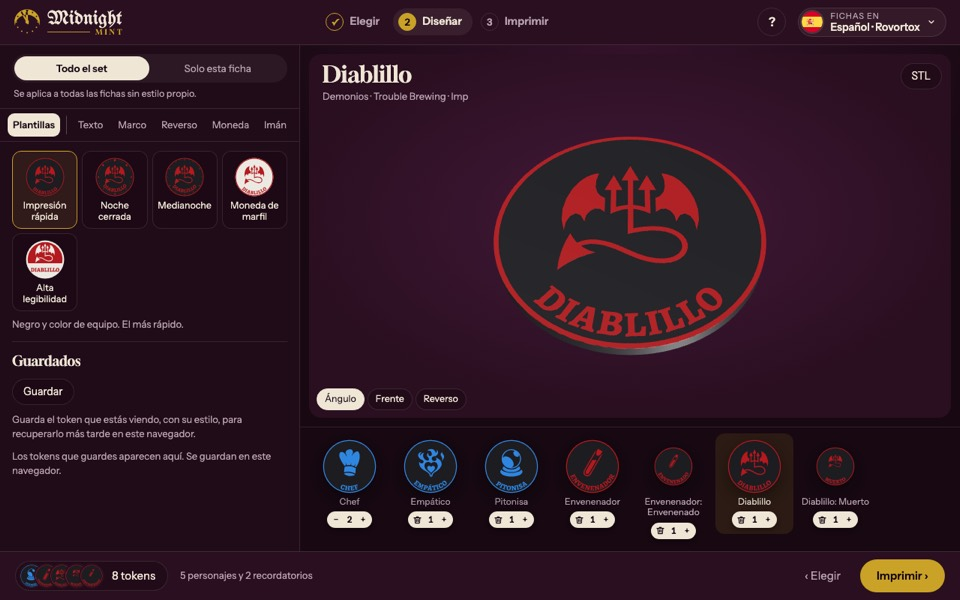
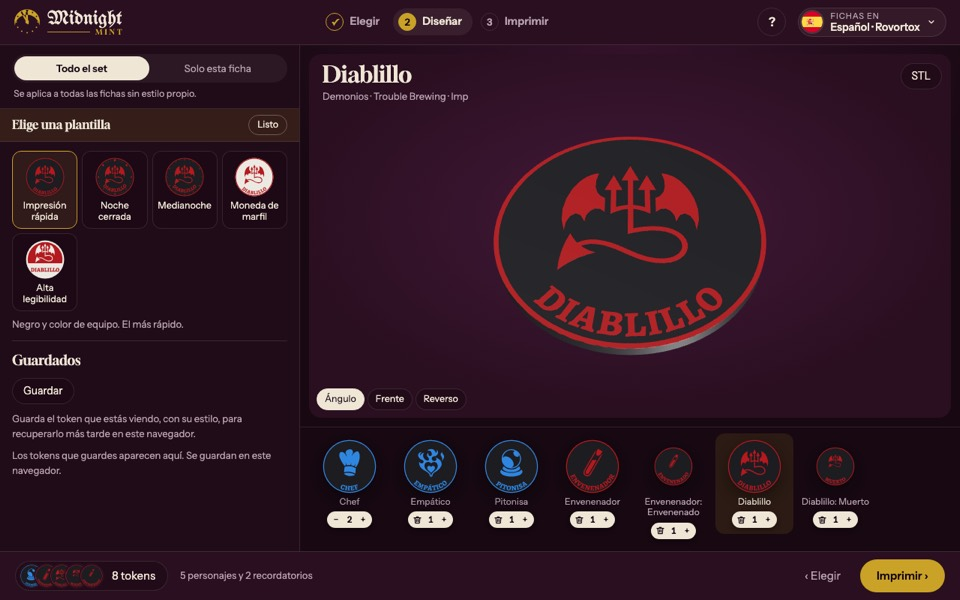
Workshop: the template gets a line of its own, saying which one and whether it's modified

diff --git a/src/main.js b/src/main.js
@@ -49,7 +49,8 @@ const state = {
   edition: "tb", team: "all",
   sel: null,              // { key, role, reminder: index | null }
   tab: "set",   // what the controls edit: "set" or "token"
-  section: "presets",
+  section: "presets",   // what the panel shows; "presets" is the templates, open under their line
+  lastSection: "text",
   // Default set style: "Impresión rápida" (black coin, team colour, thin team rim, no back).
   spec: loadJSON(STYLE_KEY, null) || {
     ...structuredClone(DEFAULT_SPEC), style: "classic", frame: "rim", frameWidth: 0.8, back: "none", depth: 0.2,
@@ -698,14 +699,44 @@ function writableSpec() {
   const key = state.sel.key, own = state.overrides.get(key);
   if (own?.spec) return own.spec;
   const spec = structuredClone(state.spec);
+  spec.fromPreset = templateOf(state.spec).preset?.id;   // for the template line
   delete spec.preset;   // resets go to the set's values
   state.overrides.set(key, { ...own, spec });
   return spec;
+}
+/** Whether a spec differs from a template in anything the template sets (the magnet is a choice of its own). */
+function differsFrom(p, spec) {
+  const colours = (c) => ({ ...DEFAULT_SPEC.colours, ...c });
+  return Object.entries(presetSpec(p)).some(([k, v]) => !PRESET_KEEPS.has(k)
+    && JSON.stringify(k === "colours" ? colours(v) : v) !== JSON.stringify(k === "colours" ? colours(spec.colours) : spec[k] ?? DEFAULT_SPEC[k]));
+}
+/** The template a spec started from, or for one saved before this was kept, the template it matches. */
+function templateOf(spec) {
+  const id = spec.preset ?? spec.fromPreset;
+  const preset = PRESETS.find((p) => p.id === id) ?? PRESETS.find((p) => !differsFrom(p, spec));
+  return { preset, modified: !!preset && differsFrom(preset, spec) };
+}
+/** Before a change: a spec that matches a template but never named it keeps which one, or it'd be lost. */
+function rememberTemplate(spec) {
+  if (spec.preset || spec.fromPreset) return;
+  const { preset } = templateOf(spec);
+  if (preset) spec.fromPreset = preset.id;
+}
+/** The line above the sections: which template, and the way to the others. */
+function renderTemplateRow() {
+  const open = state.section === "presets", row = $("#tplRow");
+  row.setAttribute("aria-expanded", String(open));
+  if (open) { row.innerHTML = `<b>${esc(t("tpl.choose"))}</b><em>${esc(t("tpl.done"))}</em>`; return; }
+  const { preset, modified } = templateOf(editingSpec());
+  row.innerHTML = `<span>${esc(t("tpl.label"))}</span><b>${esc(preset ? t(`preset.${preset.id}`) : t("tpl.none"))}</b>${modified ? `<small>${esc(t("tpl.modified"))}</small>` : ""}<em>${esc(t("tpl.change"))}</em>`;
 }
 /** Each section turns the 3D view to what it changes. */
 const SECTION_VIEW = { presets: "angle", text: "top", frame: "top", back: "back", coin: "angle", magnet: "back" };
 function showSection(section) {
   state.section = section;
+  if (section !== "presets") state.lastSection = section;
+  $("#sections").hidden = section === "presets";
+  renderTemplateRow();
   $$(".sections [data-section]").forEach((b) => b.setAttribute("aria-selected", String(b.dataset.section === section)));
   $$(".ws-panel").forEach((p) => { p.hidden = p.dataset.panel !== section; });
   $("#styleFields").scrollTop = 0;
@@ -748,6 +779,7 @@ function renderWorkshop() {
     // The design tiles show a coin: a card shows them on a character.
     const tileRole = isCard(role) ? state.lib.roles.find((r) => !isCard(r) && r.edition === "tb") ?? role : role;
     renderPresets(tileRole, editing);
+    renderTemplateRow();
     renderBackTiles(tileRole, editing);
     renderFrameTiles(tileRole, editing);
     syncControls(editing);
@@ -786,6 +818,7 @@ const dec1 = (v) => v.toFixed(1).replace(".", uiLang() === "es" ? "," : ".");
 /** The fix for light inlays: the depth that covers the coin, on the style the token actually uses. */
 function deepen() {
   const key = state.sel.key, own = state.overrides.get(key)?.spec;
+  rememberTemplate(own ?? state.spec);
   (own ?? state.spec).depth = LIGHT_DEPTH;
   if (own) storeOverrides(); else storeJSON(STYLE_KEY, state.spec);
   renderWorkshop(); scheduleSheet();
@@ -816,9 +849,9 @@ function deepenAll() {
   let set = false, own = false;
   for (const x of selectionColourIssues().filter((x) => x.light.length)) {
     const o = state.overrides.get(x.k)?.spec;
-    if (o) { o.depth = LIGHT_DEPTH; own = true; } else set = true;
+    if (o) { rememberTemplate(o); o.depth = LIGHT_DEPTH; own = true; } else set = true;
   }
-  if (set) { state.spec.depth = LIGHT_DEPTH; storeJSON(STYLE_KEY, state.spec); }
+  if (set) { rememberTemplate(state.spec); state.spec.depth = LIGHT_DEPTH; storeJSON(STYLE_KEY, state.spec); }
   if (own) storeOverrides();
   if (state.sel) renderWorkshop();
   renderSheet(); renderSpine(); renderQueue();
@@ -847,11 +880,10 @@ function renderBackTiles(role, spec) {
 
 /** The premade designs, each previewed with the selected character. */
 function renderPresets(role, editing) {
-  const same = (p) => Object.entries(p.spec).every(([k, v]) => JSON.stringify(k === "colours" ? { ...DEFAULT_SPEC.colours, ...editing.colours, ...v } : v) === JSON.stringify(k === "colours" ? { ...DEFAULT_SPEC.colours, ...editing.colours } : editing[k] ?? DEFAULT_SPEC[k]));
+  const chosen = templateOf(editing).preset;
   $("#presets").innerHTML = PRESETS.map((p) =>
-    `<button class="preset" type="button" data-preset="${p.id}" aria-pressed="${same(p)}" title="${esc(t(`preset.${p.id}.help`))}">${tokenSvg(state.lib, role, { ...presetSpec(p), diameter: 45 }, { text: textFor(charKey(role), role, null) })}<span>${esc(t(`preset.${p.id}`))}</span></button>`).join("");
+    `<button class="preset" type="button" data-preset="${p.id}" aria-pressed="${p === chosen}" title="${esc(t(`preset.${p.id}.help`))}">${tokenSvg(state.lib, role, { ...presetSpec(p), diameter: 45 }, { text: textFor(charKey(role), role, null) })}<span>${esc(t(`preset.${p.id}`))}</span></button>`).join("");
   // what the chosen one is: under the tiles, so a phone has it too
-  const chosen = PRESETS.find(same);
   $("#presetHelp").textContent = chosen ? t(`preset.${chosen.id}.help`) : "";
 }
 
@@ -914,7 +946,9 @@ function resetField(key) {
 
 /** Applies a style change to whatever the controls are editing. */
 function changeStyle(mutate) {
-  mutate(writableSpec());
+  const target = writableSpec();
+  rememberTemplate(target);
+  mutate(target);
   if (state.tab === "set") storeJSON(STYLE_KEY, state.spec); else storeOverrides();
   renderWorkshop();
   scheduleSheet();
@@ -1094,10 +1128,10 @@ function wire() {
     if (state.tab === "token" && state.section === "presets") showSection("text");   // a token's text and icon are what's new here
     renderWorkshop();
   });
-  $$(".sections [data-section]").forEach((b) => b.onclick = () => {
-    showSection(b.dataset.section);
-    view3d("setView", SECTION_VIEW[b.dataset.section]); syncView(SECTION_VIEW[b.dataset.section]);
-  });
+  const goSection = (section) => { showSection(section); view3d("setView", SECTION_VIEW[section]); syncView(SECTION_VIEW[section]); };
+  $$(".sections [data-section]").forEach((b) => b.onclick = () => goSection(b.dataset.section));
+  // opens the templates; closing goes back to the section you were on
+  $("#tplRow").onclick = () => goSection(state.section === "presets" ? state.lastSection : "presets");
   for (const key of ["style", "windowFinish", "frame", "back", "magnet", "magnetSize"]) {
     $(`[data-choice=${key}]`).onclick = (e) => {
       const b = e.target.closest("button"); if (!b) return;

diff --git a/src/style.css b/src/style.css
@@ -310,12 +310,21 @@ button, input, select, textarea { font: inherit; color: inherit; }
 .scope button[aria-pressed=true] { background: var(--bone); color: var(--velvet-deep); font-weight: 600; }
 .scope-note { margin: 7px 2px 0; font-size: 12.5px; line-height: 1.35; color: var(--dust); }
 .scope-note .link { font-size: 12.5px; color: var(--bone); }
-.sections { flex: none; display: flex; justify-content: space-between; align-items: center; gap: 2px; padding: 6px 10px; border-bottom: 1px solid var(--seam); overflow-x: auto; scrollbar-width: none; }
+.sections { flex: none; display: flex; justify-content: space-around; align-items: center; gap: 2px; padding: 6px 10px; border-bottom: 1px solid var(--seam); overflow-x: auto; scrollbar-width: none; }
 .sections::-webkit-scrollbar { display: none; }
 .sections button { flex: none; border: 0; background: none; border-radius: 9px; padding: 6px 7px; font-size: 13px; color: var(--dust); cursor: pointer; }
 .sections button:hover { color: var(--bone); }
 .sections button[aria-selected=true] { background: var(--bone); color: var(--velvet-deep); font-weight: 600; }
-.sections-sep { flex: none; width: 1px; align-self: stretch; margin: 3px 2px; background: rgba(239, 230, 214, .28); }
+.sections[hidden] { display: none; }
+/* the template: a line of its own over the sections */
+.tpl-row { flex: none; width: 100%; display: flex; align-items: center; gap: 7px; padding: 8px 16px; border: 0; border-bottom: 1px solid var(--seam); background: rgba(239, 230, 214, .04); color: inherit; font: inherit; text-align: left; cursor: pointer; }
+.tpl-row:hover { background: rgba(239, 230, 214, .08); }
+.tpl-row[aria-expanded=true] { background: rgba(201, 162, 39, .13); }
+.tpl-row span { flex: none; font-size: 12.5px; color: var(--dust); }
+.tpl-row b { min-width: 0; font: 400 16px/1.2 var(--display); white-space: nowrap; overflow: hidden; text-overflow: ellipsis; }
+.tpl-row small { flex: none; font-size: 12px; color: var(--brass); }
+.tpl-row em { flex: none; margin-left: auto; font-style: normal; font-size: 12.5px; color: var(--bone); border: 1px solid rgba(239, 230, 214, .3); border-radius: 999px; padding: 3px 11px; }
+.tpl-row:hover em { background: var(--bone); color: var(--velvet-deep); border-color: var(--bone); }
 .ws-body { flex: 1; min-height: 0; overflow-y: auto; padding: 12px 16px 18px; }
 .ws-panel { display: flex; flex-direction: column; gap: 12px; }
 .ws-panel[hidden] { display: none; }
@@ -516,7 +525,6 @@ dialog .import { margin-top: 10px; }
   .app[data-step="2"] { grid-template-columns: 360px minmax(0, 1fr); }
   .sections { padding-inline: 6px; gap: 0; }
   .sections button { padding-inline: 5px; font-size: 12.5px; }
-  .sections-sep { margin-inline: 1px; }
   #rows .row { grid-template-columns: 64px minmax(0, 1fr); }
   #rows .row .rems { grid-column: 2; }
   #rows .row > .tok-w { grid-row: span 2; align-self: start; }

diff --git a/index.html b/index.html
@@ -92,10 +92,10 @@
       </div>
       <p class="scope-note"><span id="styleScope"></span> <button class="link" type="button" id="resetToken" data-i18n="ws.reset" hidden></button></p>
     </div>
-    <!-- templates replace the whole design; after the line, each section adjusts one part of it -->
-    <div class="sections" role="tablist" data-i18n-attr="aria-label:ws.sections">
-      <button type="button" role="tab" data-section="presets" aria-selected="true" data-i18n="presets.title"></button>
-      <i class="sections-sep" aria-hidden="true"></i>
+    <!-- the template isn't one more section: it replaces the whole design, and each section adjusts one part of it.
+         Open, the templates sit right under this line and the sections wait until it closes. -->
+    <button class="tpl-row" type="button" id="tplRow" aria-expanded="true" aria-controls="presetsPanel"></button>
+    <div class="sections" id="sections" role="tablist" data-i18n-attr="aria-label:ws.sections" hidden>
       <button type="button" role="tab" data-section="text" aria-selected="false" data-i18n="sec.text"></button>
       <button type="button" role="tab" data-section="frame" aria-selected="false" data-i18n="sec.frame"></button>
       <button type="button" role="tab" data-section="back" aria-selected="false" data-i18n="sec.back"></button>
@@ -104,7 +104,7 @@
     </div>
     <div class="ws-body" id="styleFields">
       <div class="ws-warn" id="colourWarn" hidden></div>
-      <section class="ws-panel" data-panel="presets" role="tabpanel">
+      <section class="ws-panel" id="presetsPanel" data-panel="presets">
         <div class="presets" id="presetsBox">
           <div class="preset-list" id="presets"></div>
           <p class="hint" id="presetHelp"></p>

diff --git a/src/i18n.js b/src/i18n.js
@@ -229,7 +229,12 @@ const STR = {
     "sec.queue": "Cola de impresión",
     "sec.reminders": "Recordatorios",
     "sec.frame": "Marco",
-    "presets.title": "Plantillas",
+    "tpl.label": "Plantilla",
+    "tpl.choose": "Elige una plantilla",
+    "tpl.change": "Cambiar",
+    "tpl.done": "Listo",
+    "tpl.modified": "modificada",
+    "tpl.none": "Sin plantilla",
     "sec.text": "Texto",
     "preset.rapida": "Impresión rápida",
     "preset.rapida.help": "Negro y color de equipo. El más rápido.",
@@ -637,7 +642,12 @@ const STR = {
     "sec.queue": "Print queue",
     "sec.reminders": "Reminders",
     "sec.frame": "Frame",
-    "presets.title": "Templates",
+    "tpl.label": "Template",
+    "tpl.choose": "Choose a template",
+    "tpl.change": "Change",
+    "tpl.done": "Done",
+    "tpl.modified": "modified",
+    "tpl.none": "No template",
     "sec.text": "Text",
     "preset.rapida": "Fast print",
     "preset.rapida.help": "Black and team colour. The quickest.",
